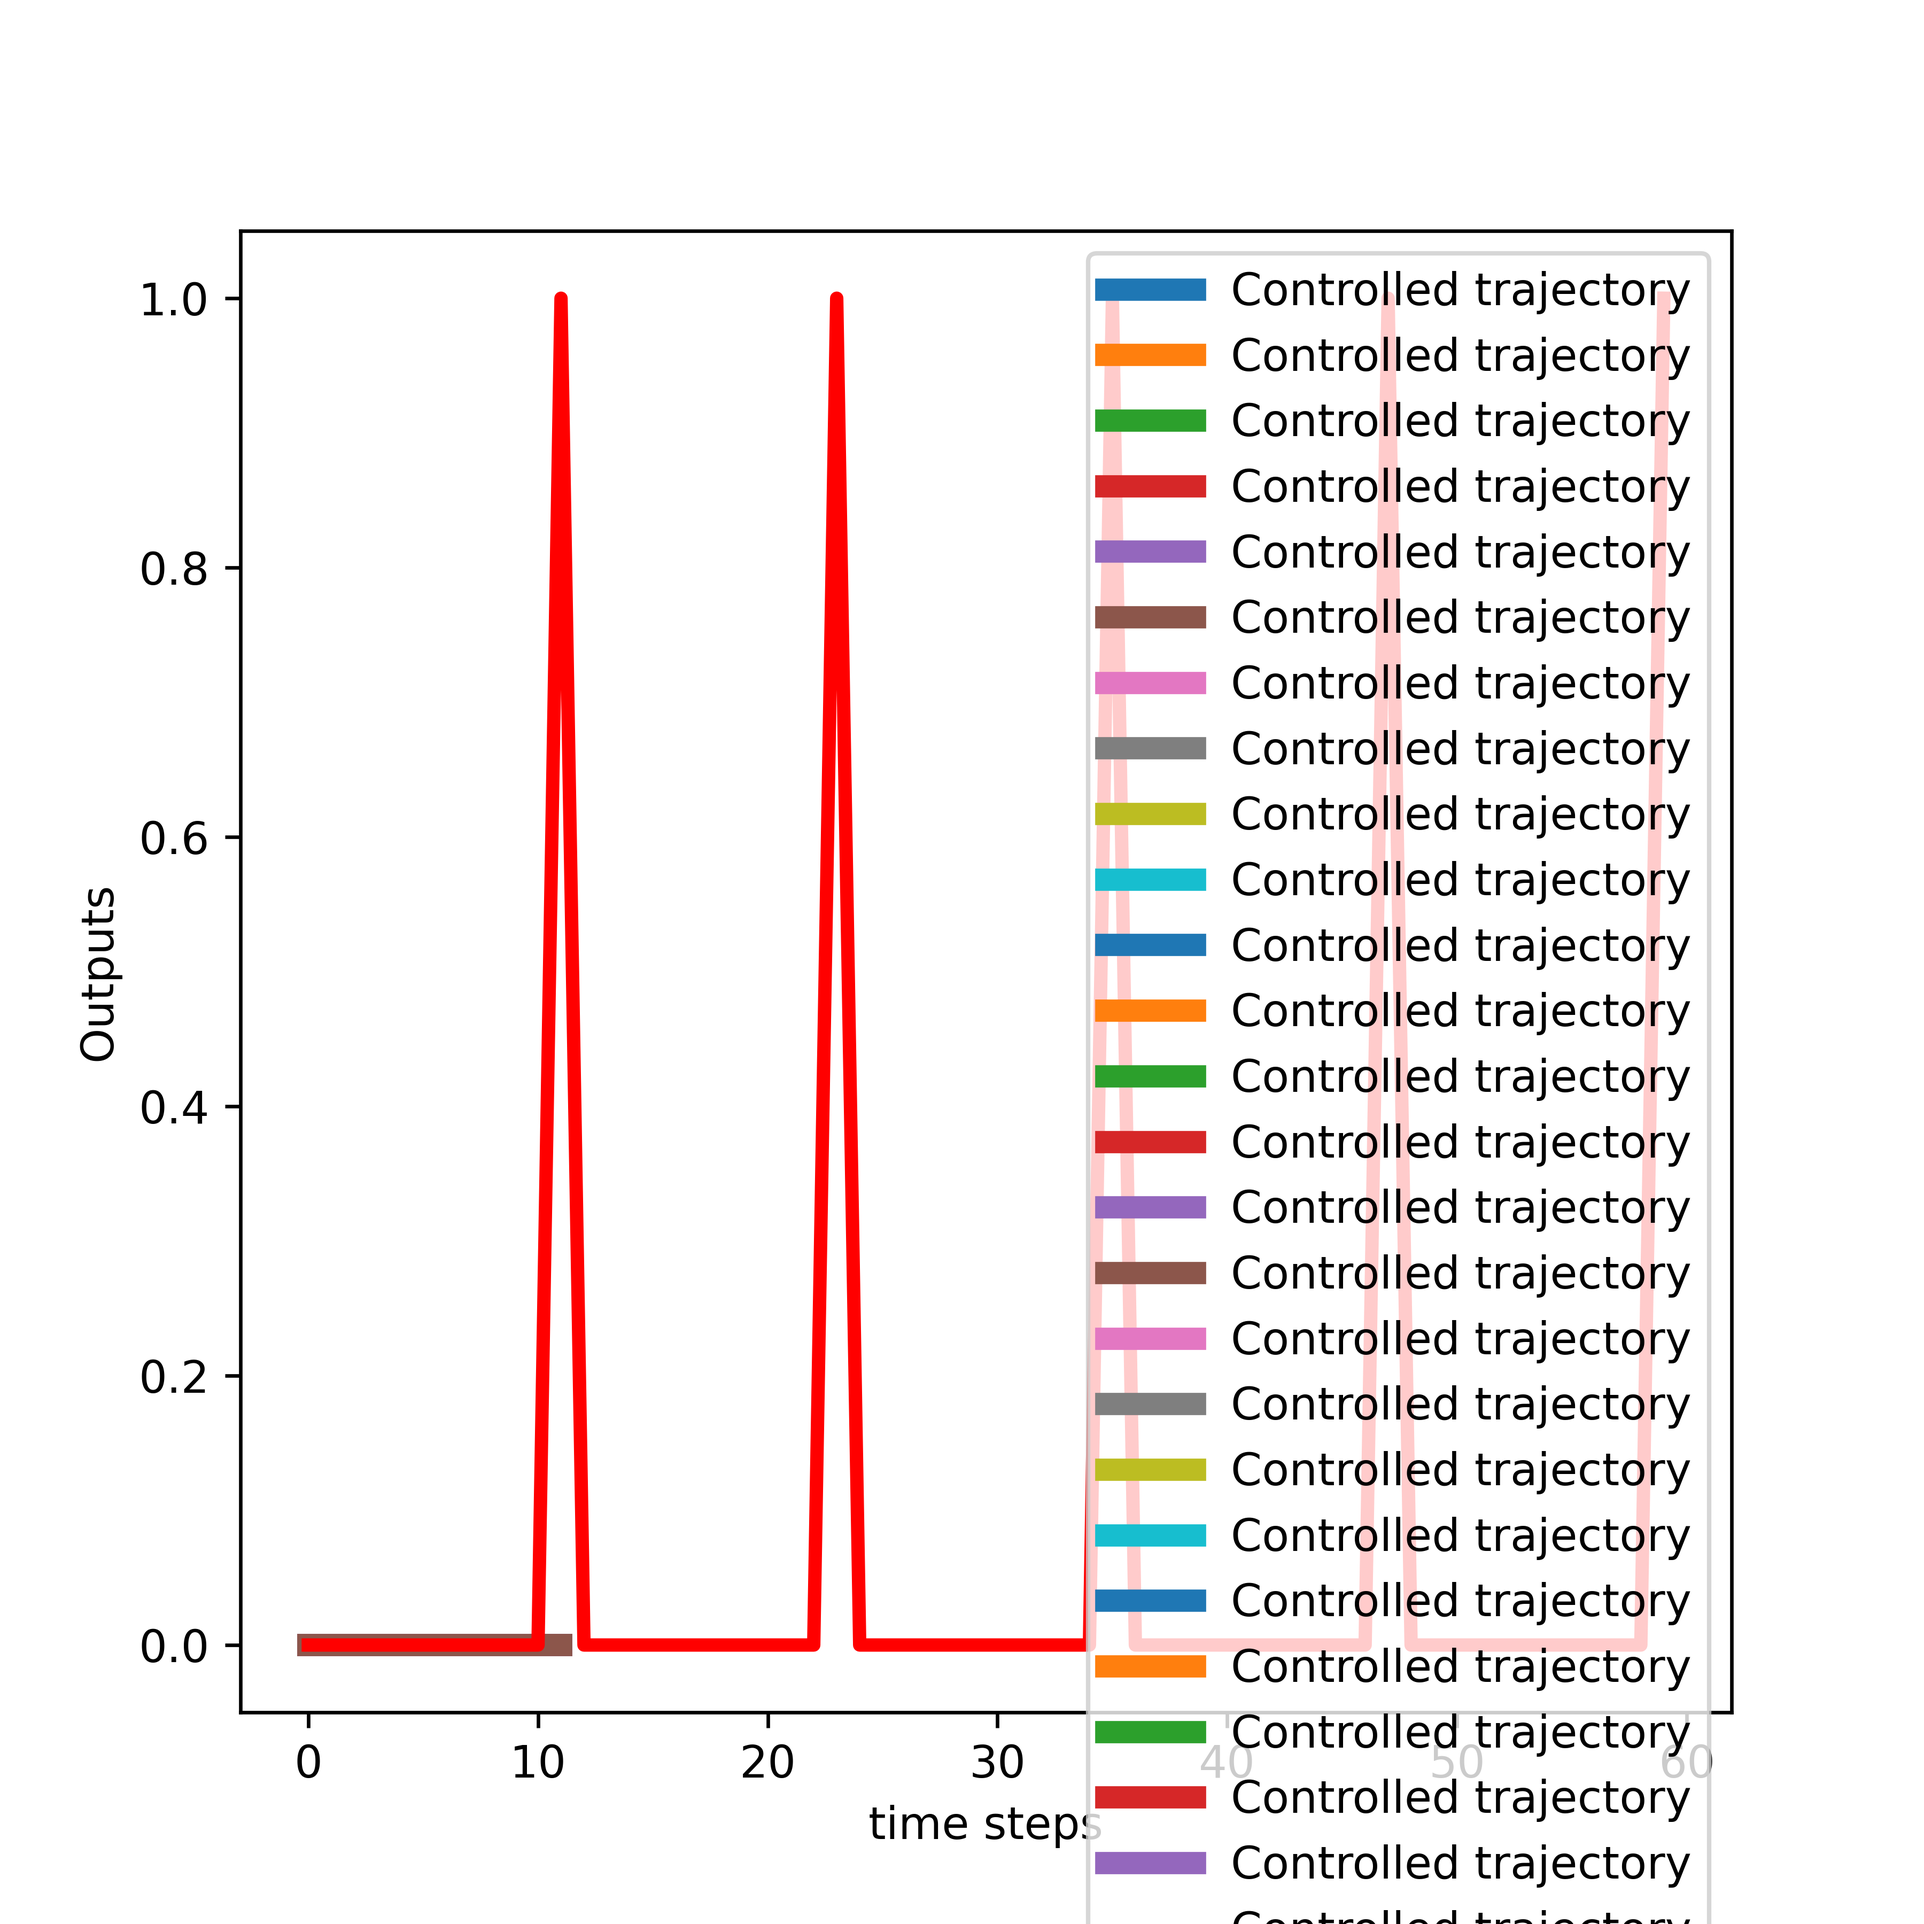
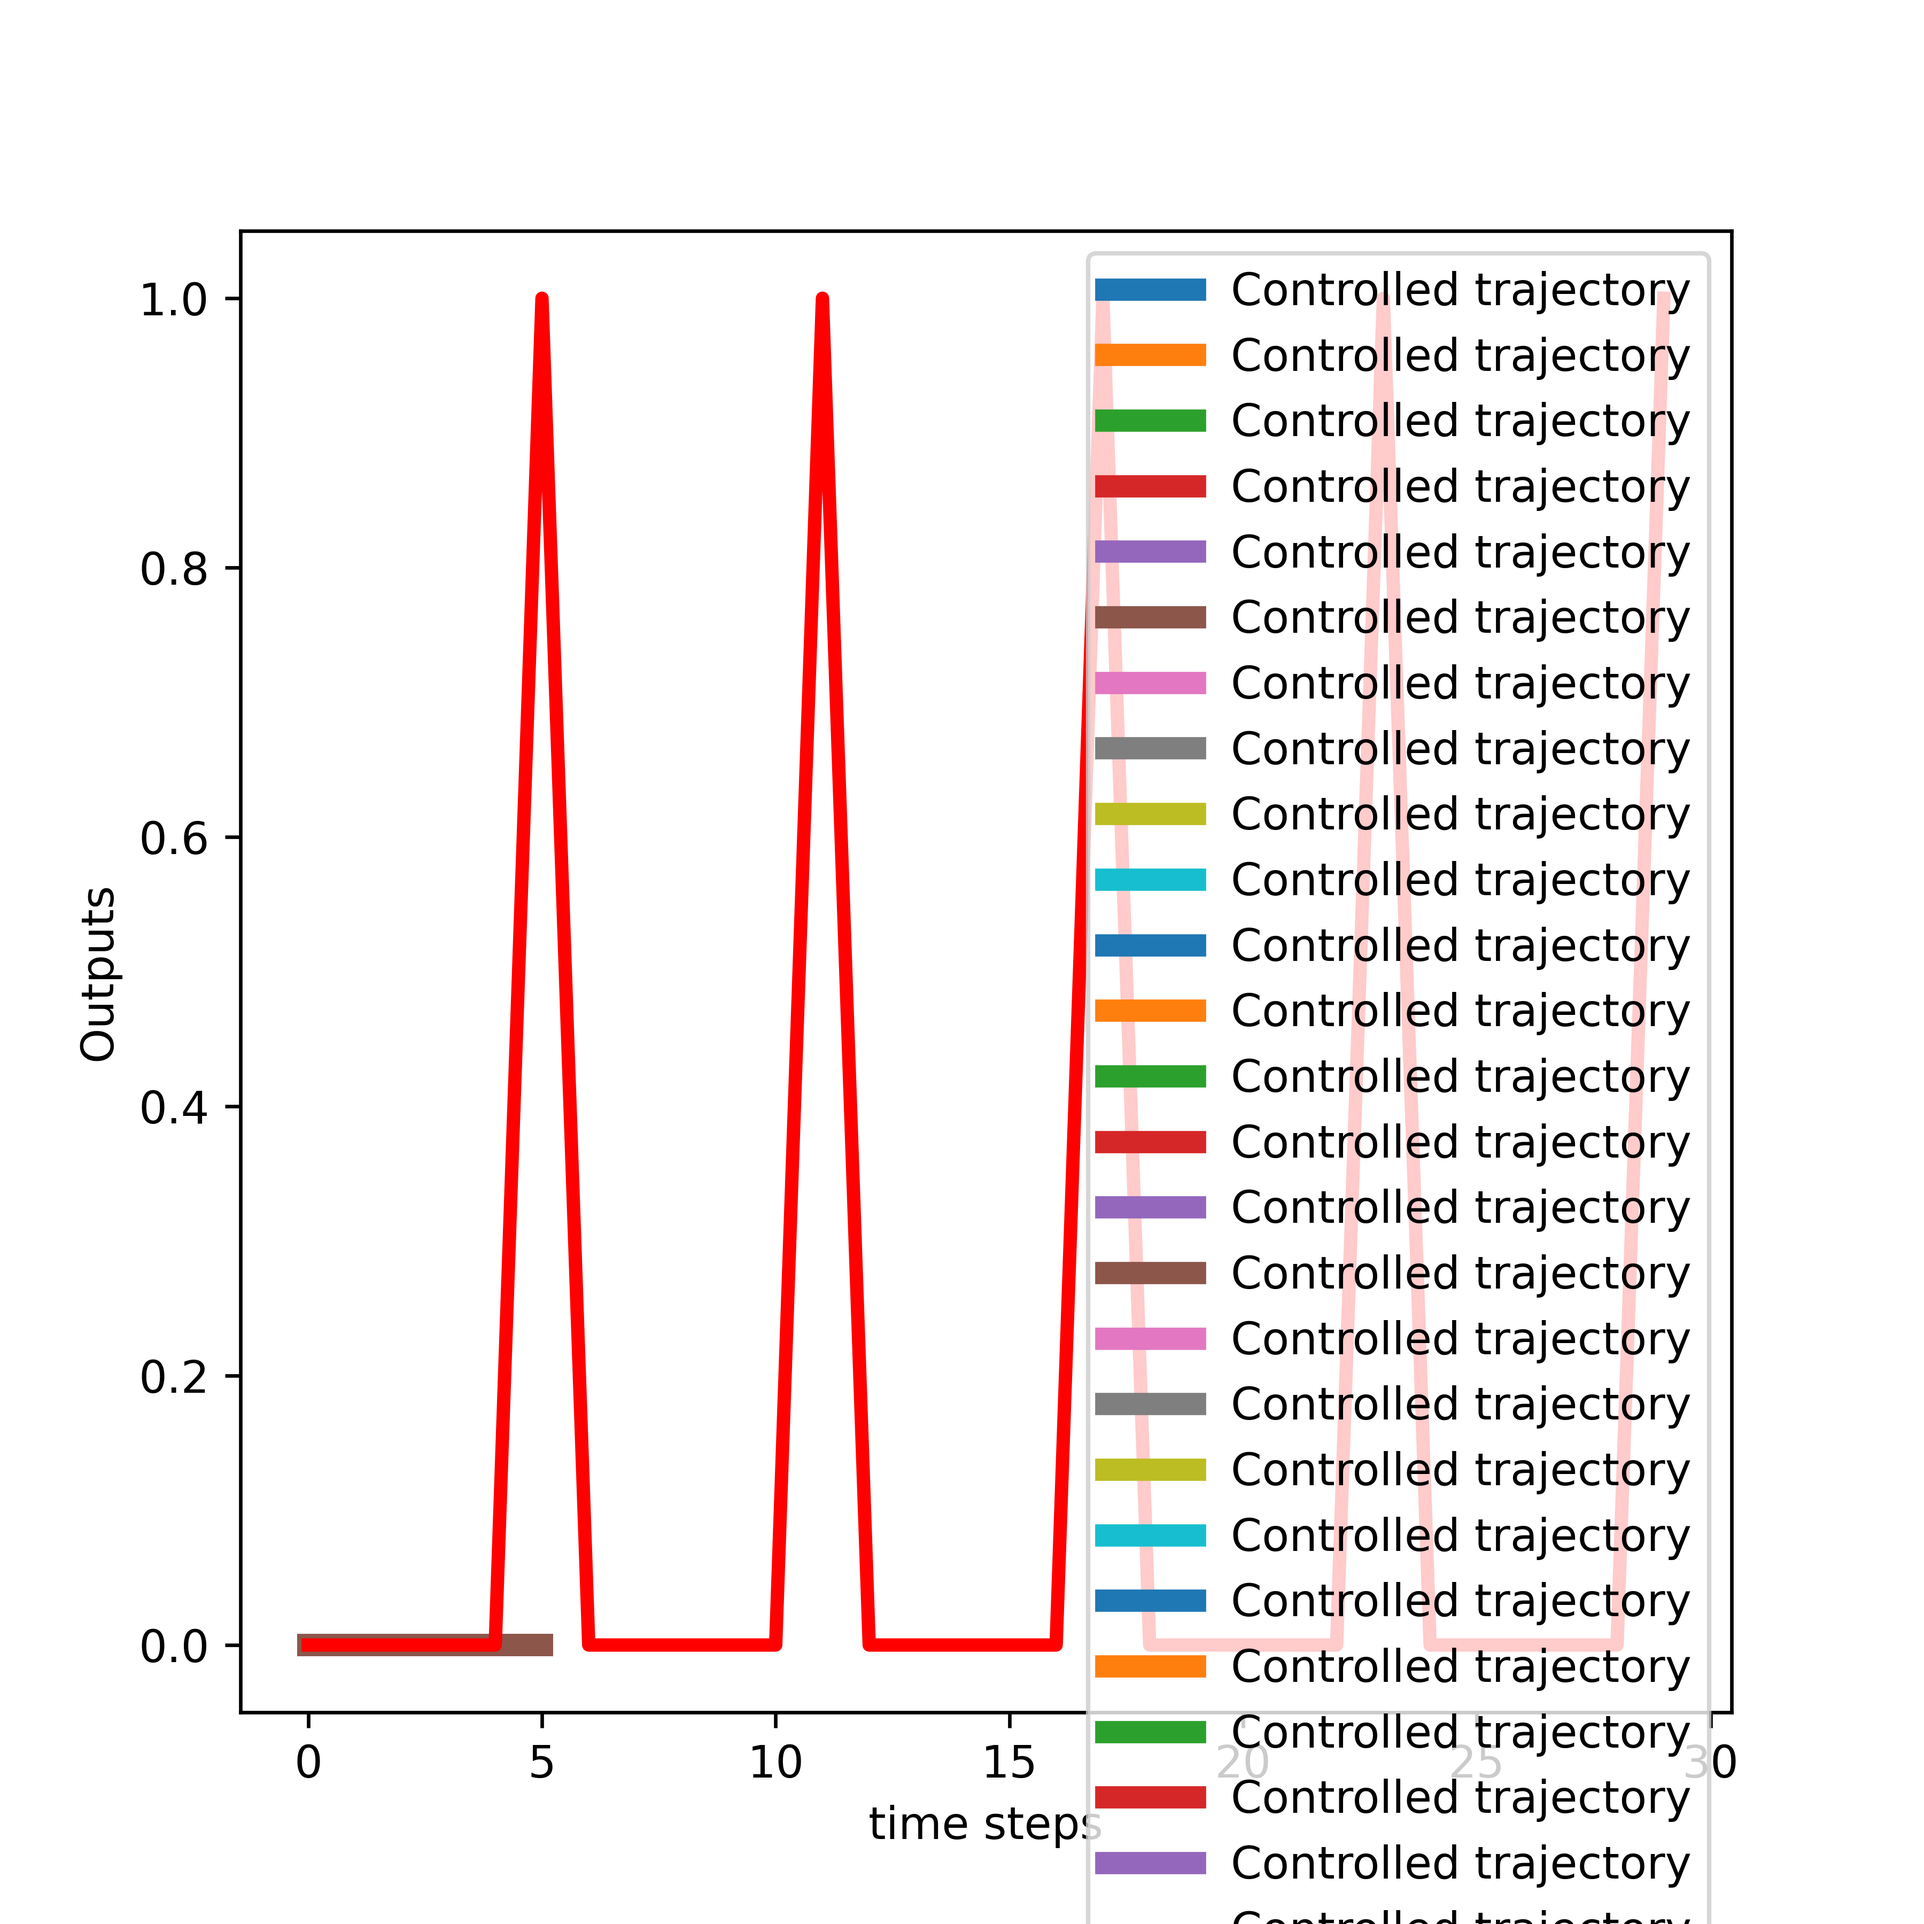
feature: Made it output successfully to output csv files for the 6-dimensional C-matrix case (results look fine, but haven't checked in details). If successful, this MPC is extended to the multidimensional drone case

diff --git a/driver_code.cpp b/driver_code.cpp
@@ -88,25 +88,26 @@ const double g = 9.81;     // Acceleration due to gravity
                              {0, 0, 0, 0},
                              {0, 0, 0, 0},};
 
-    Matrix <double,12,12> Cc;
-    Cc.setIdentity(); // Cc_everything
+    //Matrix <double,12,12> Cc;
+    //Cc.setIdentity(); // Cc_everything
 
 
     // Cc_Rot_pos
-    //Matrix <double,6,12> Cc {{1, 0, 0, 0, 0, 0, 0, 0, 0, 0, 0, 0},
-    //                          {0, 1, 0, 0, 0, 0, 0, 0, 0, 0, 0, 0},
-    //                          {0, 0, 1, 0, 0, 0, 0, 0, 0, 0, 0, 0},
-    //                          {0, 0, 0, 0, 0, 0, 0, 0, 0, 1, 0, 0},
-    //                          {0, 0, 0, 0, 0, 0, 0, 0, 0, 0, 1, 0},
-    //                          {0, 0, 0, 0, 0, 0, 0, 0, 0, 0, 0, 1}};
+    Matrix <double,6,12> Cc {{1, 0, 0, 0, 0, 0, 0, 0, 0, 0, 0, 0},
+                              {0, 1, 0, 0, 0, 0, 0, 0, 0, 0, 0, 0},
+                              {0, 0, 1, 0, 0, 0, 0, 0, 0, 0, 0, 0},
+                              {0, 0, 0, 0, 0, 0, 0, 0, 0, 1, 0, 0},
+                              {0, 0, 0, 0, 0, 0, 0, 0, 0, 0, 1, 0},
+                              {0, 0, 0, 0, 0, 0, 0, 0, 0, 0, 0, 1}};
 
 
 
 
-
+    // This is always 12-dimensional!
     //                         Rotation    angular vel   vel       position
     //                     roll,pitch,yaw, p, q, r,    u, v, w,     x, y, z
     Matrix <double,12,1> x0 {{0},{0},{0},{0},{0},{0},{0},{0},{0},{0},{0},{0}};
+
 
 
 
@@ -176,11 +177,11 @@ for (int i=0; i<v;i++)
 
 
 //# W2 matrix
-Matrix <double,Bc.cols(),Bc.cols()> Q0;
+Matrix <double, Bc.cols(), Bc.cols()> Q0;
 Q0.setIdentity();
 Q0 = Q0 * 0.0000000011;
 
-Matrix <double,Bc.cols(),Bc.cols()> Qother;
+Matrix <double, Bc.cols(), Bc.cols()> Qother;
 Qother.setIdentity();
 Qother = Qother * 0.0001;
 
@@ -221,7 +222,7 @@ W4.setZero();
 // # in the general case, this constant should be a matrix
 //double predWeight=10;
 
-Matrix <double,12,12> predWeight;
+Matrix <double, Cc.rows(), Cc.rows()> predWeight;
 predWeight.setIdentity();
 predWeight = 10 * predWeight;
 
@@ -278,15 +279,15 @@ Matrix <double,6,1> desiredTrajectory_instance {{0},{0},{0},{0},{0},{1}};
 
 //                                                Rotation    position
 //                                            roll,pitch,yaw, x, y, z
-//MatrixXd desiredTrajectory_instance;
-//desiredTrajectory_instance.resize(6,1);
-//desiredTrajectory_instance << 0, 0, 0, 0, 0, 1;
+MatrixXd desiredTrajectory_instance;
+desiredTrajectory_instance.resize(6,1);
+desiredTrajectory_instance << 0, 0, 0, 0, 0, 1;
 
 //                                                 Rotation    angular vel   vel       position
 //                                             roll,pitch,yaw, p, q, r,    u, v, w,     x, y, z
-MatrixXd desiredTrajectory_instance;
-desiredTrajectory_instance.resize(12,1);
-desiredTrajectory_instance << 0, 0, 0, 0, 0, 0, 0, 0, 0, 0, 0, 1;
+//MatrixXd desiredTrajectory_instance;
+//desiredTrajectory_instance.resize(12,1);
+//desiredTrajectory_instance << 0, 0, 0, 0, 0, 0, 0, 0, 0, 0, 0, 1;
 
 
 
